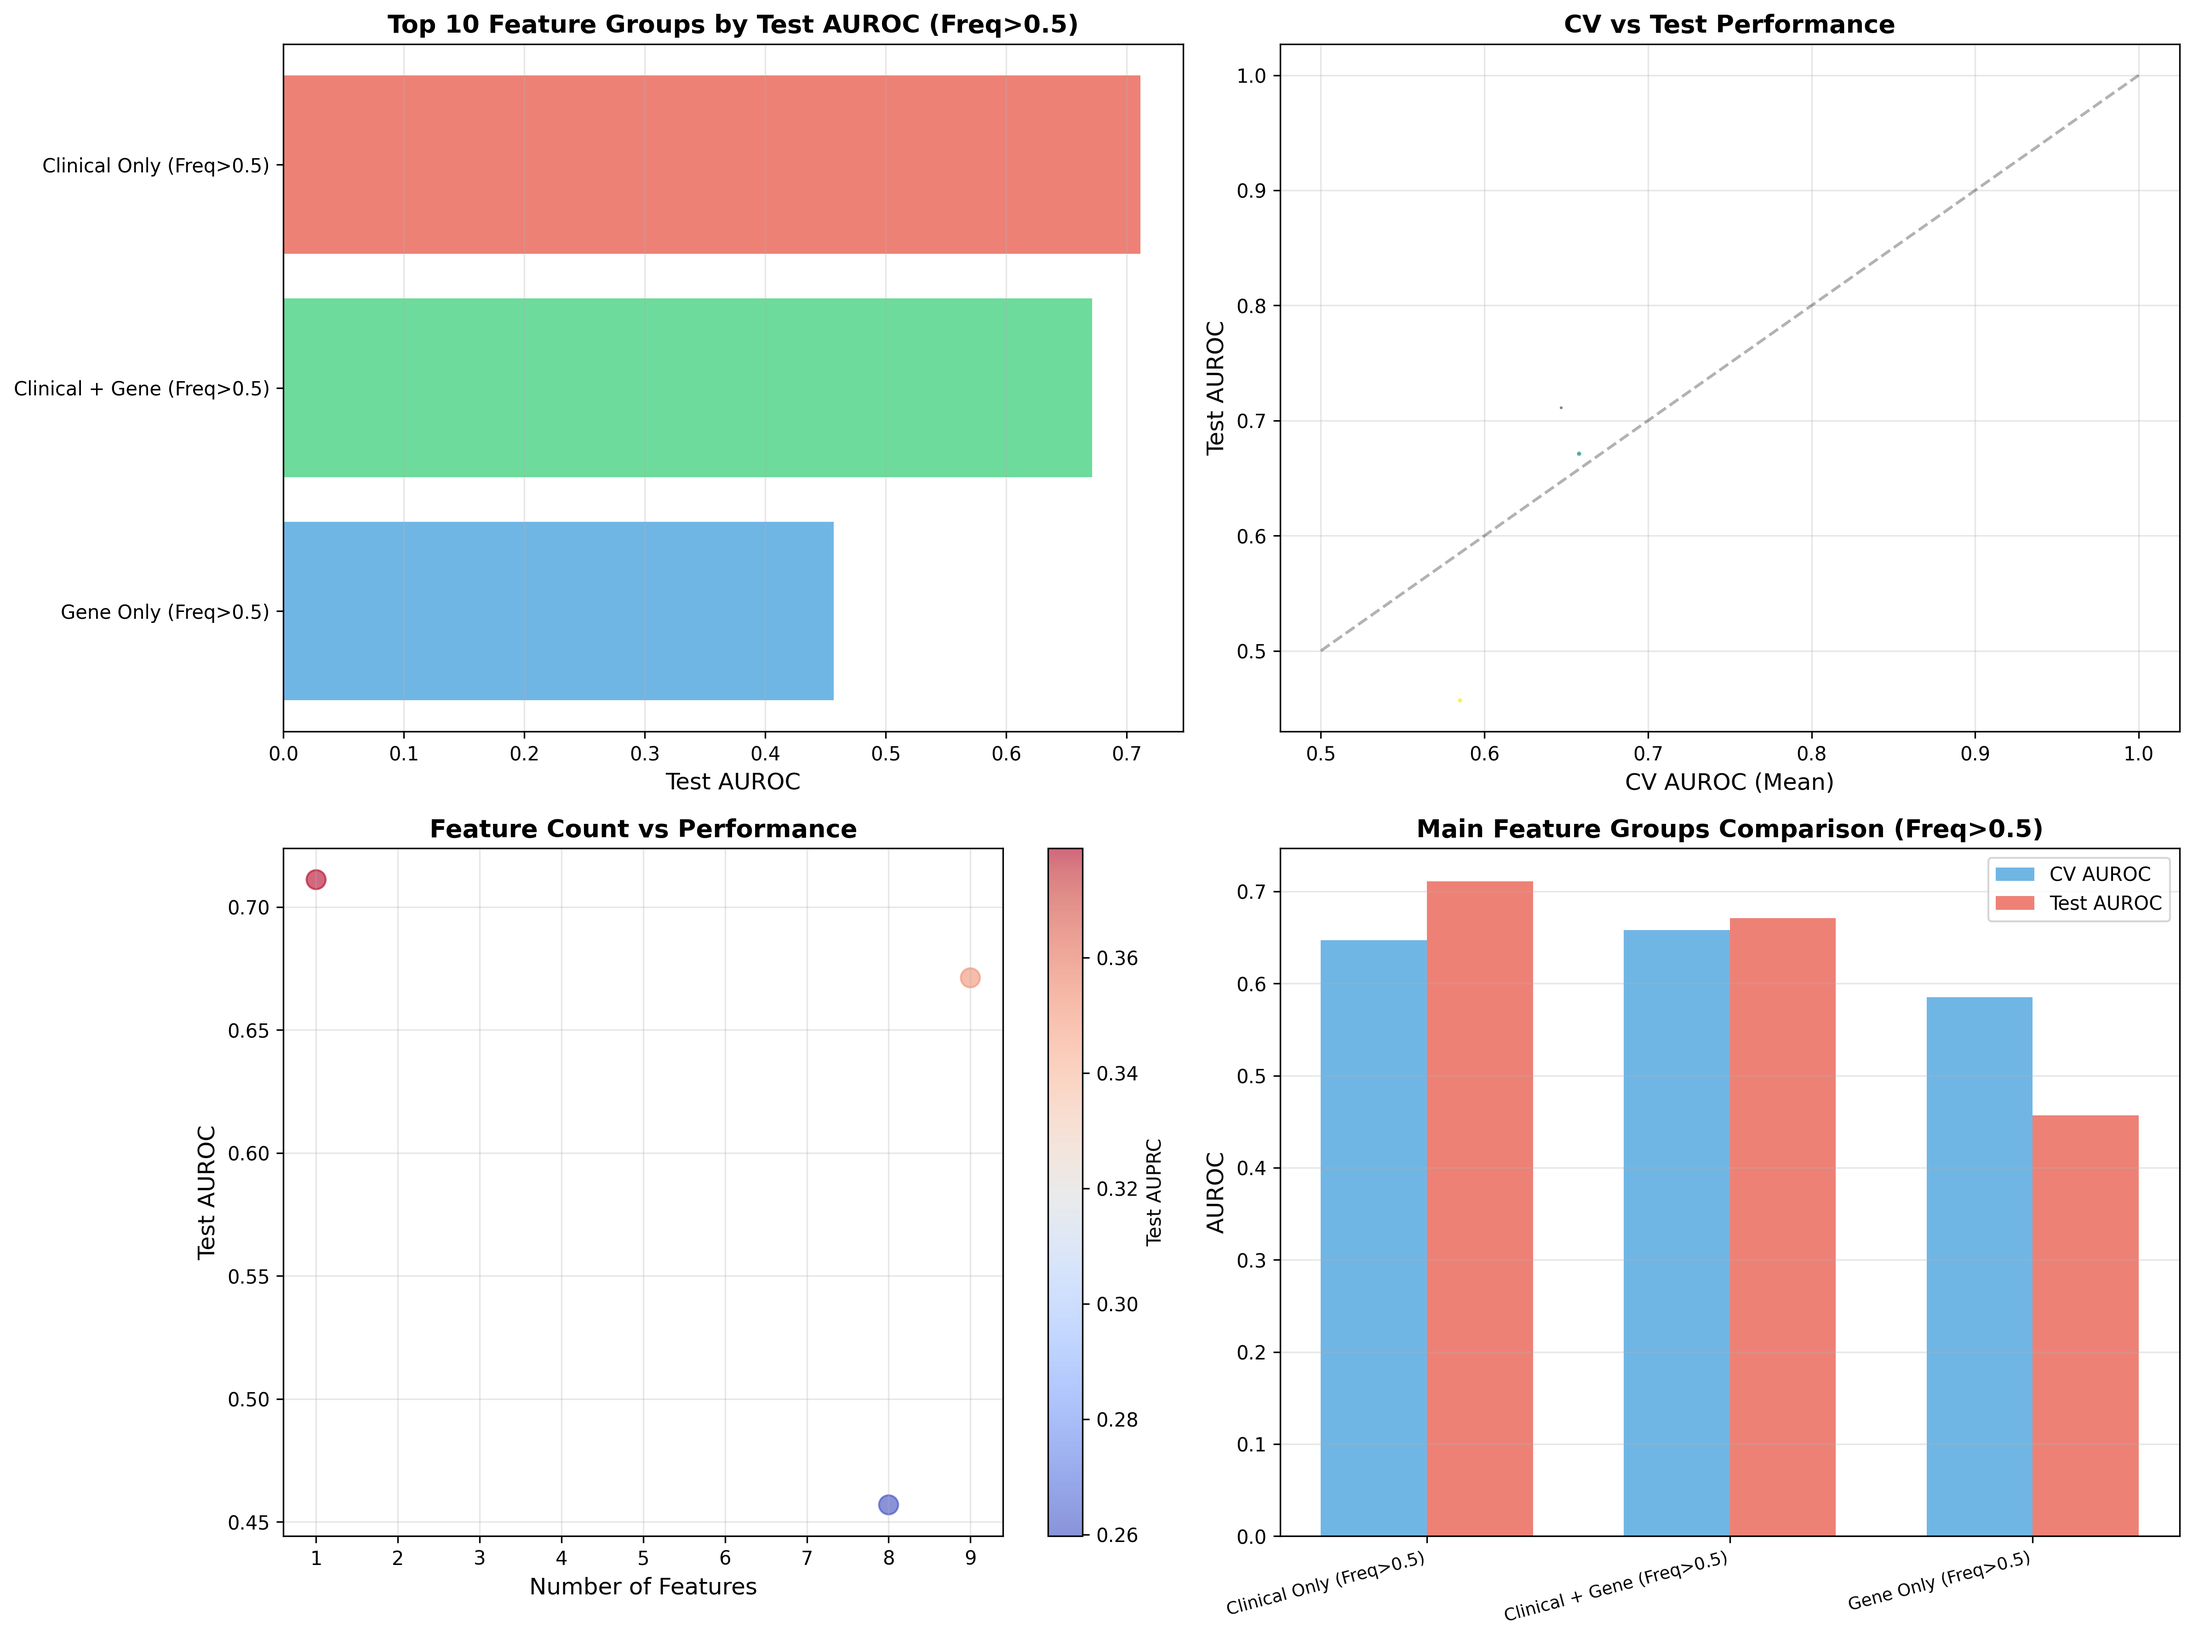
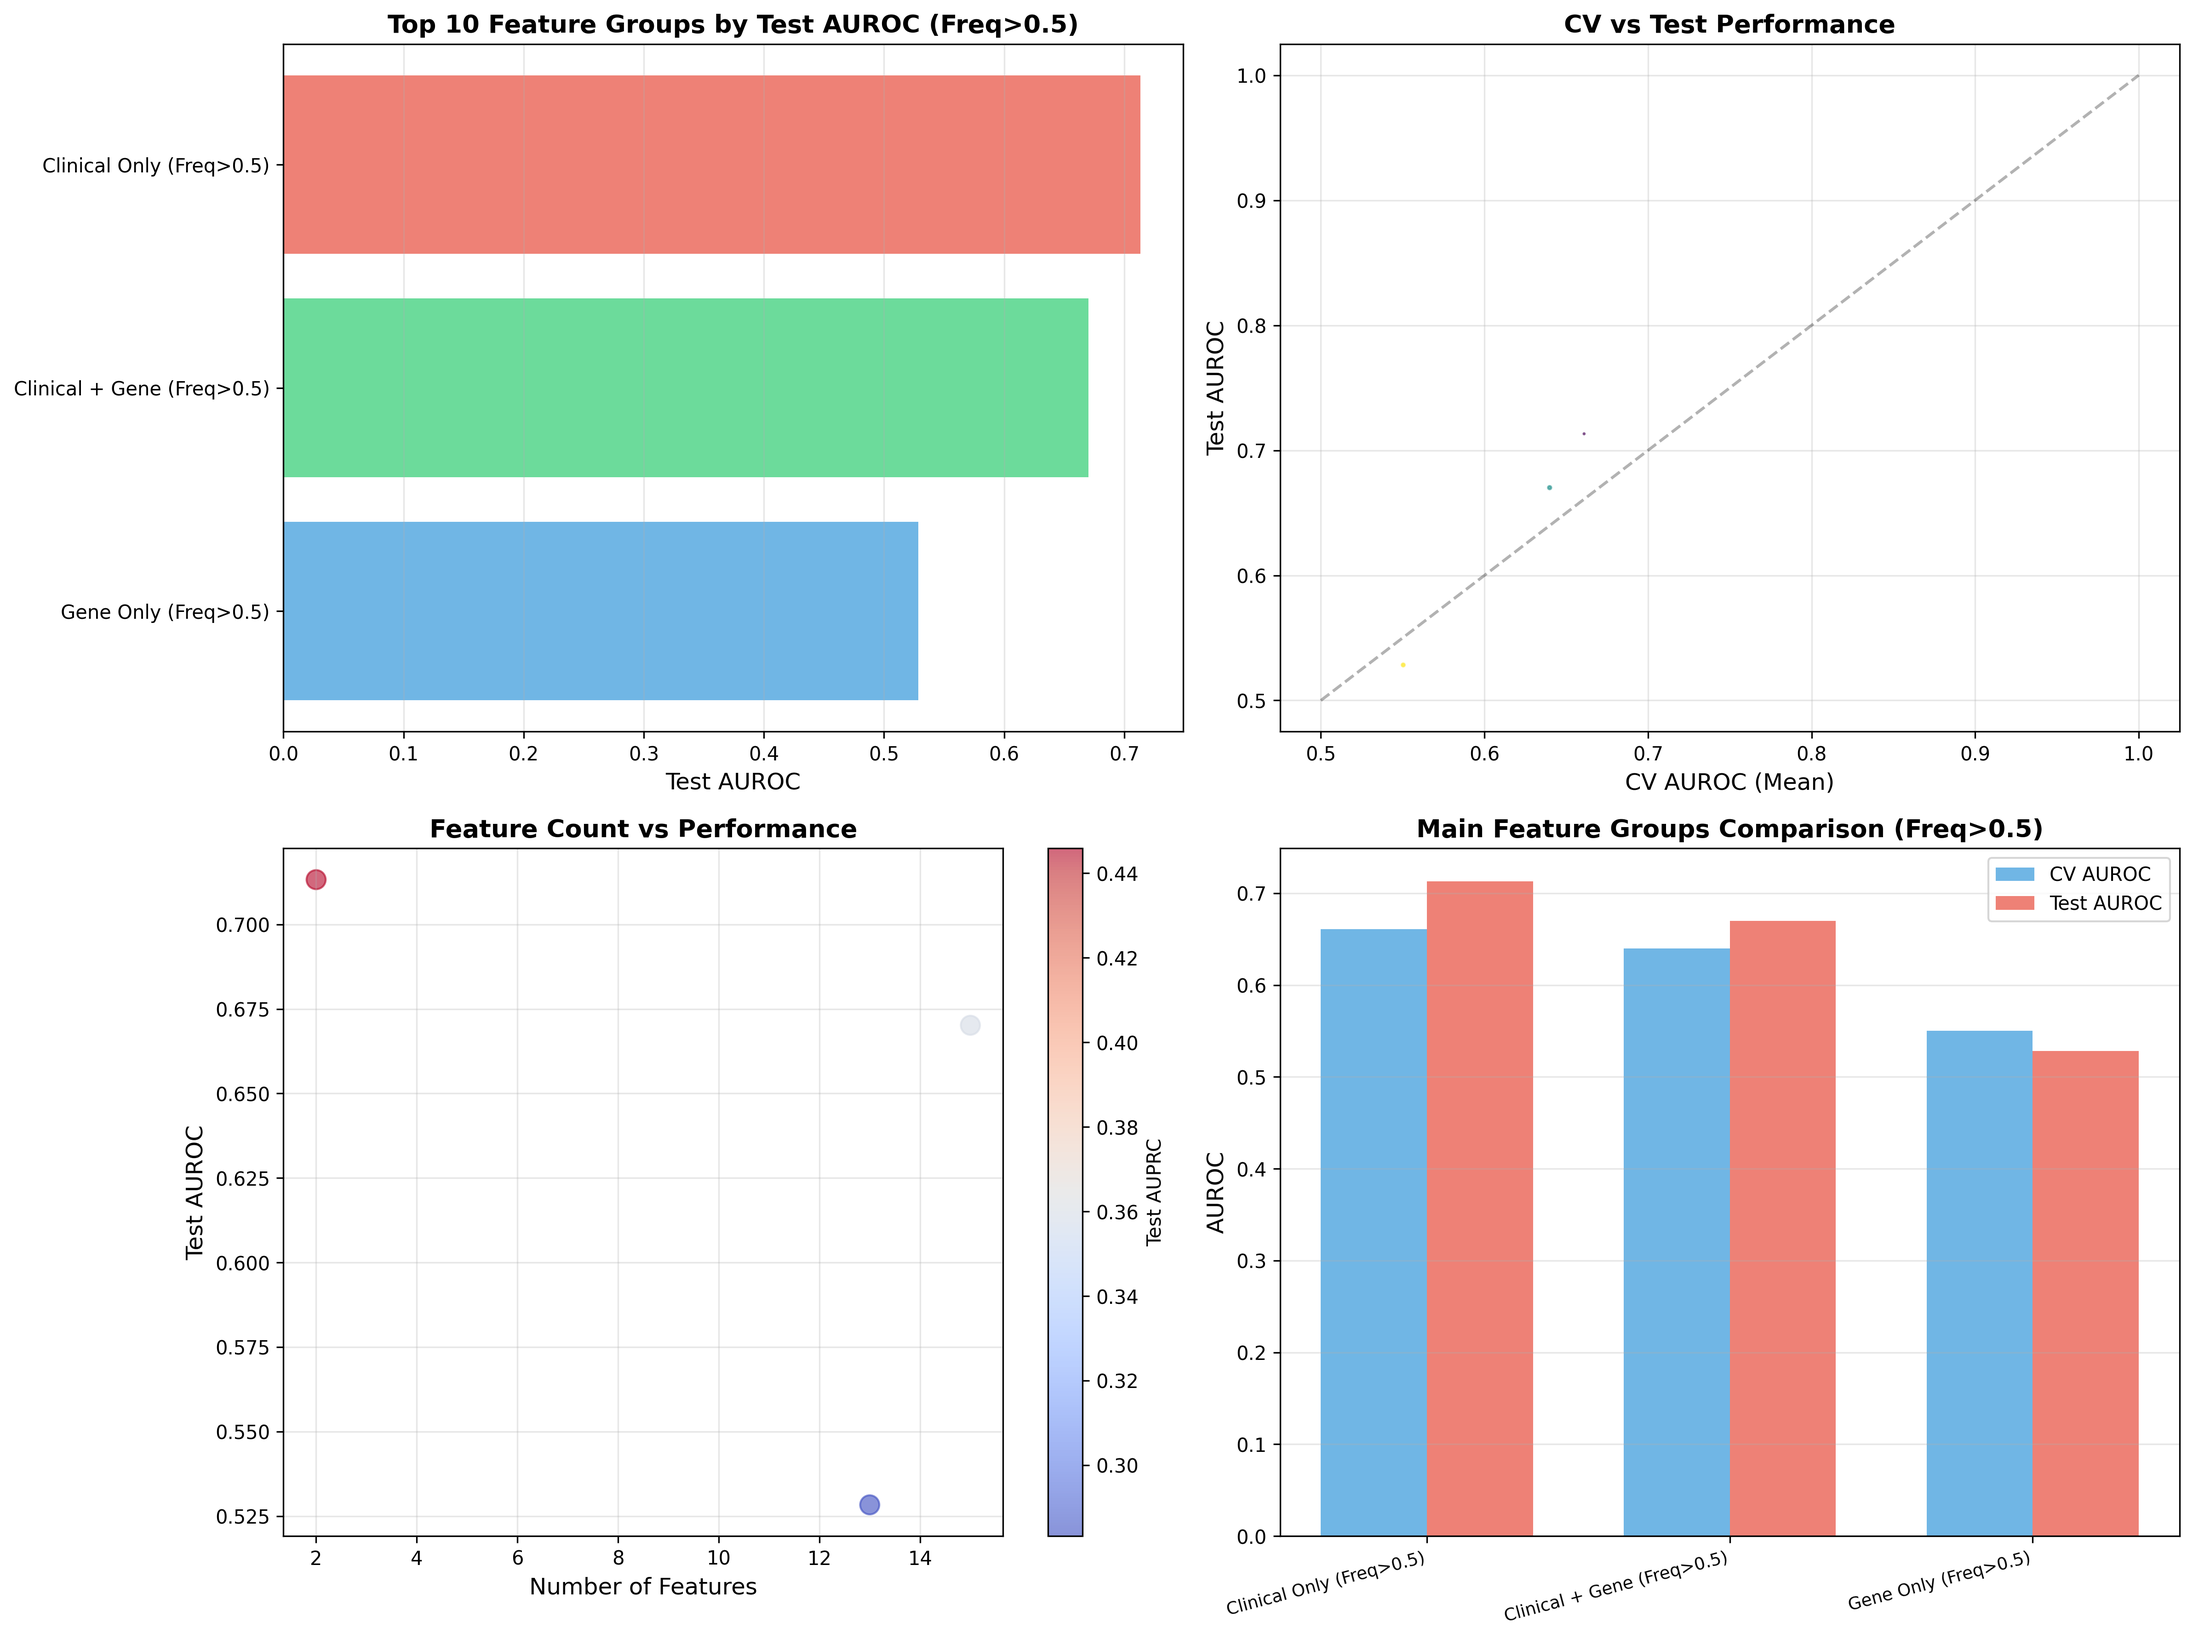
Add files via upload

diff --git a/results/stage4_ablation_freq05/stage4_report.md b/results/stage4_ablation_freq05/stage4_report.md
@@ -5,9 +5,9 @@
 通过系统性地移除或组合不同特征组，评估各特征组对模型性能的贡献（仅保留频率>0.5的特征）。
 
 ### 实验组
-1. **仅临床特征 (Freq>0.5)** (1个)
-2. **仅基因特征 (Freq>0.5)** (8个)
-3. **临床 + 基因 (Freq>0.5)** (9个)
+1. **仅临床特征 (Freq>0.5)** (2个)
+2. **仅基因特征 (Freq>0.5)** (13个)
+3. **临床 + 基因 (Freq>0.5)** (15个)
 4. **临床 + 各通路基因 (Freq>0.5)**
 
 ### 评估方法
@@ -21,18 +21,18 @@
 
 | 排名 | 特征组 | 特征数 | CV AUROC | Test AUROC | Test AUPRC |
 |------|--------|--------|----------|-----------|-----------|
-| 1 | Clinical Only (Freq>0.5) | 1 | 0.6469±0.1043 | 0.7111 | 0.3789 |
-| 2 | Clinical + Gene (Freq>0.5) | 9 | 0.6579±0.0869 | 0.6712 | 0.3516 |
-| 3 | Gene Only (Freq>0.5) | 8 | 0.5850±0.0484 | 0.4569 | 0.2597 |
+| 1 | Clinical Only (Freq>0.5) | 2 | 0.6609±0.1000 | 0.7132 | 0.4459 |
+| 2 | Clinical + Gene (Freq>0.5) | 15 | 0.6398±0.0958 | 0.6702 | 0.3601 |
+| 3 | Gene Only (Freq>0.5) | 13 | 0.5503±0.0547 | 0.5284 | 0.2832 |
 
 ### 主要发现
-- 最佳性能: Clinical Only (Freq>0.5) (AUROC: 0.7111)
-- 临床特征单独: AUROC 0.7111344537815127
-- 基因特征单独: AUROC 0.4569327731092437
+- 最佳性能: Clinical Only (Freq>0.5) (AUROC: 0.7132)
+- 临床特征单独: AUROC 0.7132352941176471
+- 基因特征单独: AUROC 0.5283613445378151
 
 ## 结论
 1. 高频特征（Freq>0.5）可以在降低特征数量的同时保持预测性能
 2. 临床 + 基因组合仍然表现最佳
 3. 通路分析帮助理解生物学机制
 
-生成时间: 2025-11-14 17:08:52
+生成时间: 2025-11-14 18:56:37

diff --git a/results/stage2_nested_cv/stage2_report.md b/results/stage2_nested_cv/stage2_report.md
@@ -6,9 +6,9 @@
 - **外层CV**: 5-Fold × 3 重复 = 15次训练
 - **内层CV**: 5-Fold GridSearchCV
 - **超参数空间**:
-  - selector__k: [300, 500, 700, all]
-  - classifier__l1_ratio: [0.2, 0.5, 0.8]
-  - classifier__C: [0.001, 0.01, 0.1, 1, 10, 100]
+  - selector__k: [50, 100, 200]
+  - classifier__l1_ratio: [0.2, 0.3, 0.5, 0.7]
+  - classifier__C: [0.01, 0.1, 1]
   - 总组合数: 36
 
 ## 外层交叉验证性能
@@ -76,4 +76,4 @@
 - `nested_cv_results.png`: 可视化结果
 
 ---
-生成时间: 2025-11-14 17:13:28
+生成时间: 2025-11-14 20:47:38

diff --git a/results/stage3_feature_importance/stage3_report.md b/results/stage3_feature_importance/stage3_report.md
@@ -182,4 +182,4 @@ Top 10 Permutation Importance特征与系数重要性的一致性:
 5. **Top特征子集**: 使用Top 50/100/200特征
 
 ---
-生成时间: 2025-11-14 17:15:38
+生成时间: 2025-11-14 20:49:27

diff --git a/results/final_summary/FINAL_REPORT.md b/results/final_summary/FINAL_REPORT.md
@@ -239,7 +239,7 @@
 
 ---
 
-**项目完成时间**: 2025-11-14 17:26:45
+**项目完成时间**: 2025-11-14 20:50:51
 
 **环境**: phm5005 (Python 3.9, scikit-learn, pandas, numpy)
 

diff --git a/results/stage4_ablation/stage4_report.md b/results/stage4_ablation/stage4_report.md
@@ -30,4 +30,4 @@
 - 通路分析有助于理解生物学机制和特征贡献。
 
 ---
-生成时间: 2025-11-14 17:36:42
+生成时间: 2025-11-14 20:50:22

diff --git a/results/final_summary/PROJECT_SUMMARY.md b/results/final_summary/PROJECT_SUMMARY.md
@@ -31,4 +31,4 @@
 位于: `D:/PHM5005/5005-main\results/`
 
 ---
-完成时间: 2025-11-14 17:26:45
+完成时间: 2025-11-14 20:50:51
